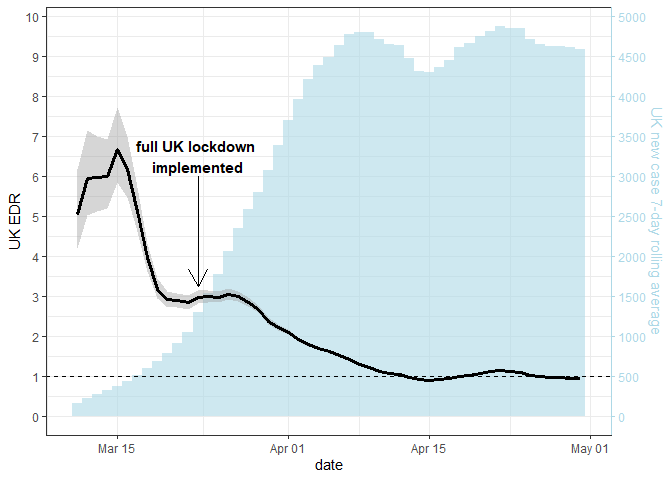
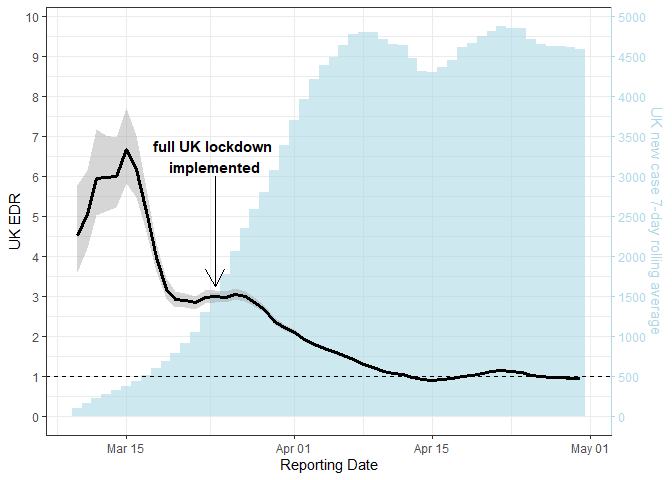
Updated readme.

diff --git a/README.md b/README.md
@@ -40,38 +40,8 @@ Source:
 ### Data
 
 ``` r
-uk_covid_cases <- structure(
-  list(
-    date = structure(
-      c(18283, 18284, 18285, 18286, 
-        18287, 18288, 18289, 18290, 18291, 18292, 18293, 18294, 18295, 
-        18296, 18297, 18298, 18299, 18300, 18301, 18302, 18303, 18304, 
-        18305, 18306, 18307, 18308, 18309, 18310, 18311, 18312, 18313, 
-        18314, 18315, 18316, 18317, 18318, 18319, 18320, 18321, 18322, 
-        18323, 18324, 18325, 18326, 18327, 18328, 18329, 18330, 18331, 
-        18332, 18333, 18334, 18335, 18336, 18337, 18338, 18339, 18340, 
-        18341, 18342, 18343, 18344, 18345, 18346, 18347, 18348, 18349, 
-        18350, 18351, 18352, 18353, 18354, 18355, 18356, 18357, 18358, 
-        18359, 18360, 18361, 18362, 18363, 18364, 18365, 18366, 18367, 
-        18368, 18369, 18370, 18371, 18372, 18373, 18374, 18375, 18376, 
-        18377, 18378, 18379, 18380, 18381, 18382), 
-      class = "Date"
-    ), 
-    new = c(0L, 
-            0L, 0L, 0L, 0L, 0L, 0L, 0L, 0L, 2L, 0L, 0L, 6L, 0L, 1L, 0L, 0L, 
-            4L, 1L, 0L, 1L, 1L, 1L, 1L, 0L, 0L, 1L, 0L, 1L, 2L, 1L, 0L, 5L, 
-            2L, 4L, 3L, 7L, 12L, 5L, 33L, 40L, 55L, 57L, 49L, 79L, 55L, 54L, 
-            147L, 258L, 411L, 489L, 480L, 364L, 442L, 612L, 770L, 1006L, 
-            1061L, 1255L, 1197L, 1423L, 2349L, 2392L, 2708L, 3111L, 3245L, 
-            2852L, 2894L, 4302L, 4537L, 4967L, 4939L, 4951L, 4094L, 3620L, 
-            5356L, 5484L, 5170L, 4912L, 4339L, 3628L, 3536L, 4209L, 4359L, 
-            5102L, 5338L, 4985L, 4731L, 3867L, 4877L, 4771L, 5506L, 5153L, 
-            4980L, 3783L, 3475L, 4707L, 4724L, 5445L, 4969L)
-  ), 
-  row.names = c(NA, -100L), 
-  class = c("data.table", "data.frame"), 
-  .internal.selfref = "<pointer: 0x00000142056ac6a0>"
-)
+data(uk_covid_cases)
+setDT(uk_covid_cases)
 ```
 
 ### EDR calculation
@@ -95,15 +65,17 @@ uk_covid_cases[, ma7 := frollmean(new, n = 7, align = "right")]
 Finally plotting everything
 
 ``` r
-uk_covid_cases <- uk_covid_cases[date > as.Date("2020-03-10")]
+uk_covid_cases <- uk_covid_cases[
+  reporting_date >= as.Date("2020-03-10") & 
+    reporting_date < as.Date("2020-05-01")]
 
 scale_factor <- 500
 # You could also calculate it more generally as below 
 # scale_factor <- max(uk_covid_cases$ma7) / max(uk_covid_cases$est)
-uk_lockdown <- as.Date("2020-03-23")
+uk_lockdown <- as.Date("2020-03-24")
 
 edr_plot <- uk_covid_cases |> 
-  ggplot(aes(x = date, y = est)) + 
+  ggplot(aes(x = reporting_date, y = est)) + 
   geom_col(aes(y = ma7 / scale_factor), width = 1, alpha = 0.6, fill = "lightblue") +
   geom_smooth(aes(y = est, ymin = lower, ymax = upper), 
               stat = "identity", 
@@ -116,8 +88,8 @@ edr_plot <- uk_covid_cases |>
            label = "full UK lockdown \nimplemented",
            vjust = -0.1,
            fontface = "bold") +
+  labs(x = "Reporting Date", y = "UK EDR") +
   scale_y_continuous(breaks = seq(0, 10, 1),
-                     name = "UK EDR", 
                      sec.axis = sec_axis(\(x) x * scale_factor,
                                          breaks = seq(0, 5000, 500),
                                          name = "UK new case 7-day rolling average")) +
@@ -129,7 +101,7 @@ edr_plot <- uk_covid_cases |>
   )
 
 edr_plot
-#> Warning in geom_segment(aes(x = uk_lockdown, y = 6, xend = uk_lockdown, : All aesthetics have length 1, but the data has 51 rows.
+#> Warning in geom_segment(aes(x = uk_lockdown, y = 6, xend = uk_lockdown, : All aesthetics have length 1, but the data has 52 rows.
 #> ℹ Please consider using `annotate()` or provide this layer with data containing
 #>   a single row.
 ```
